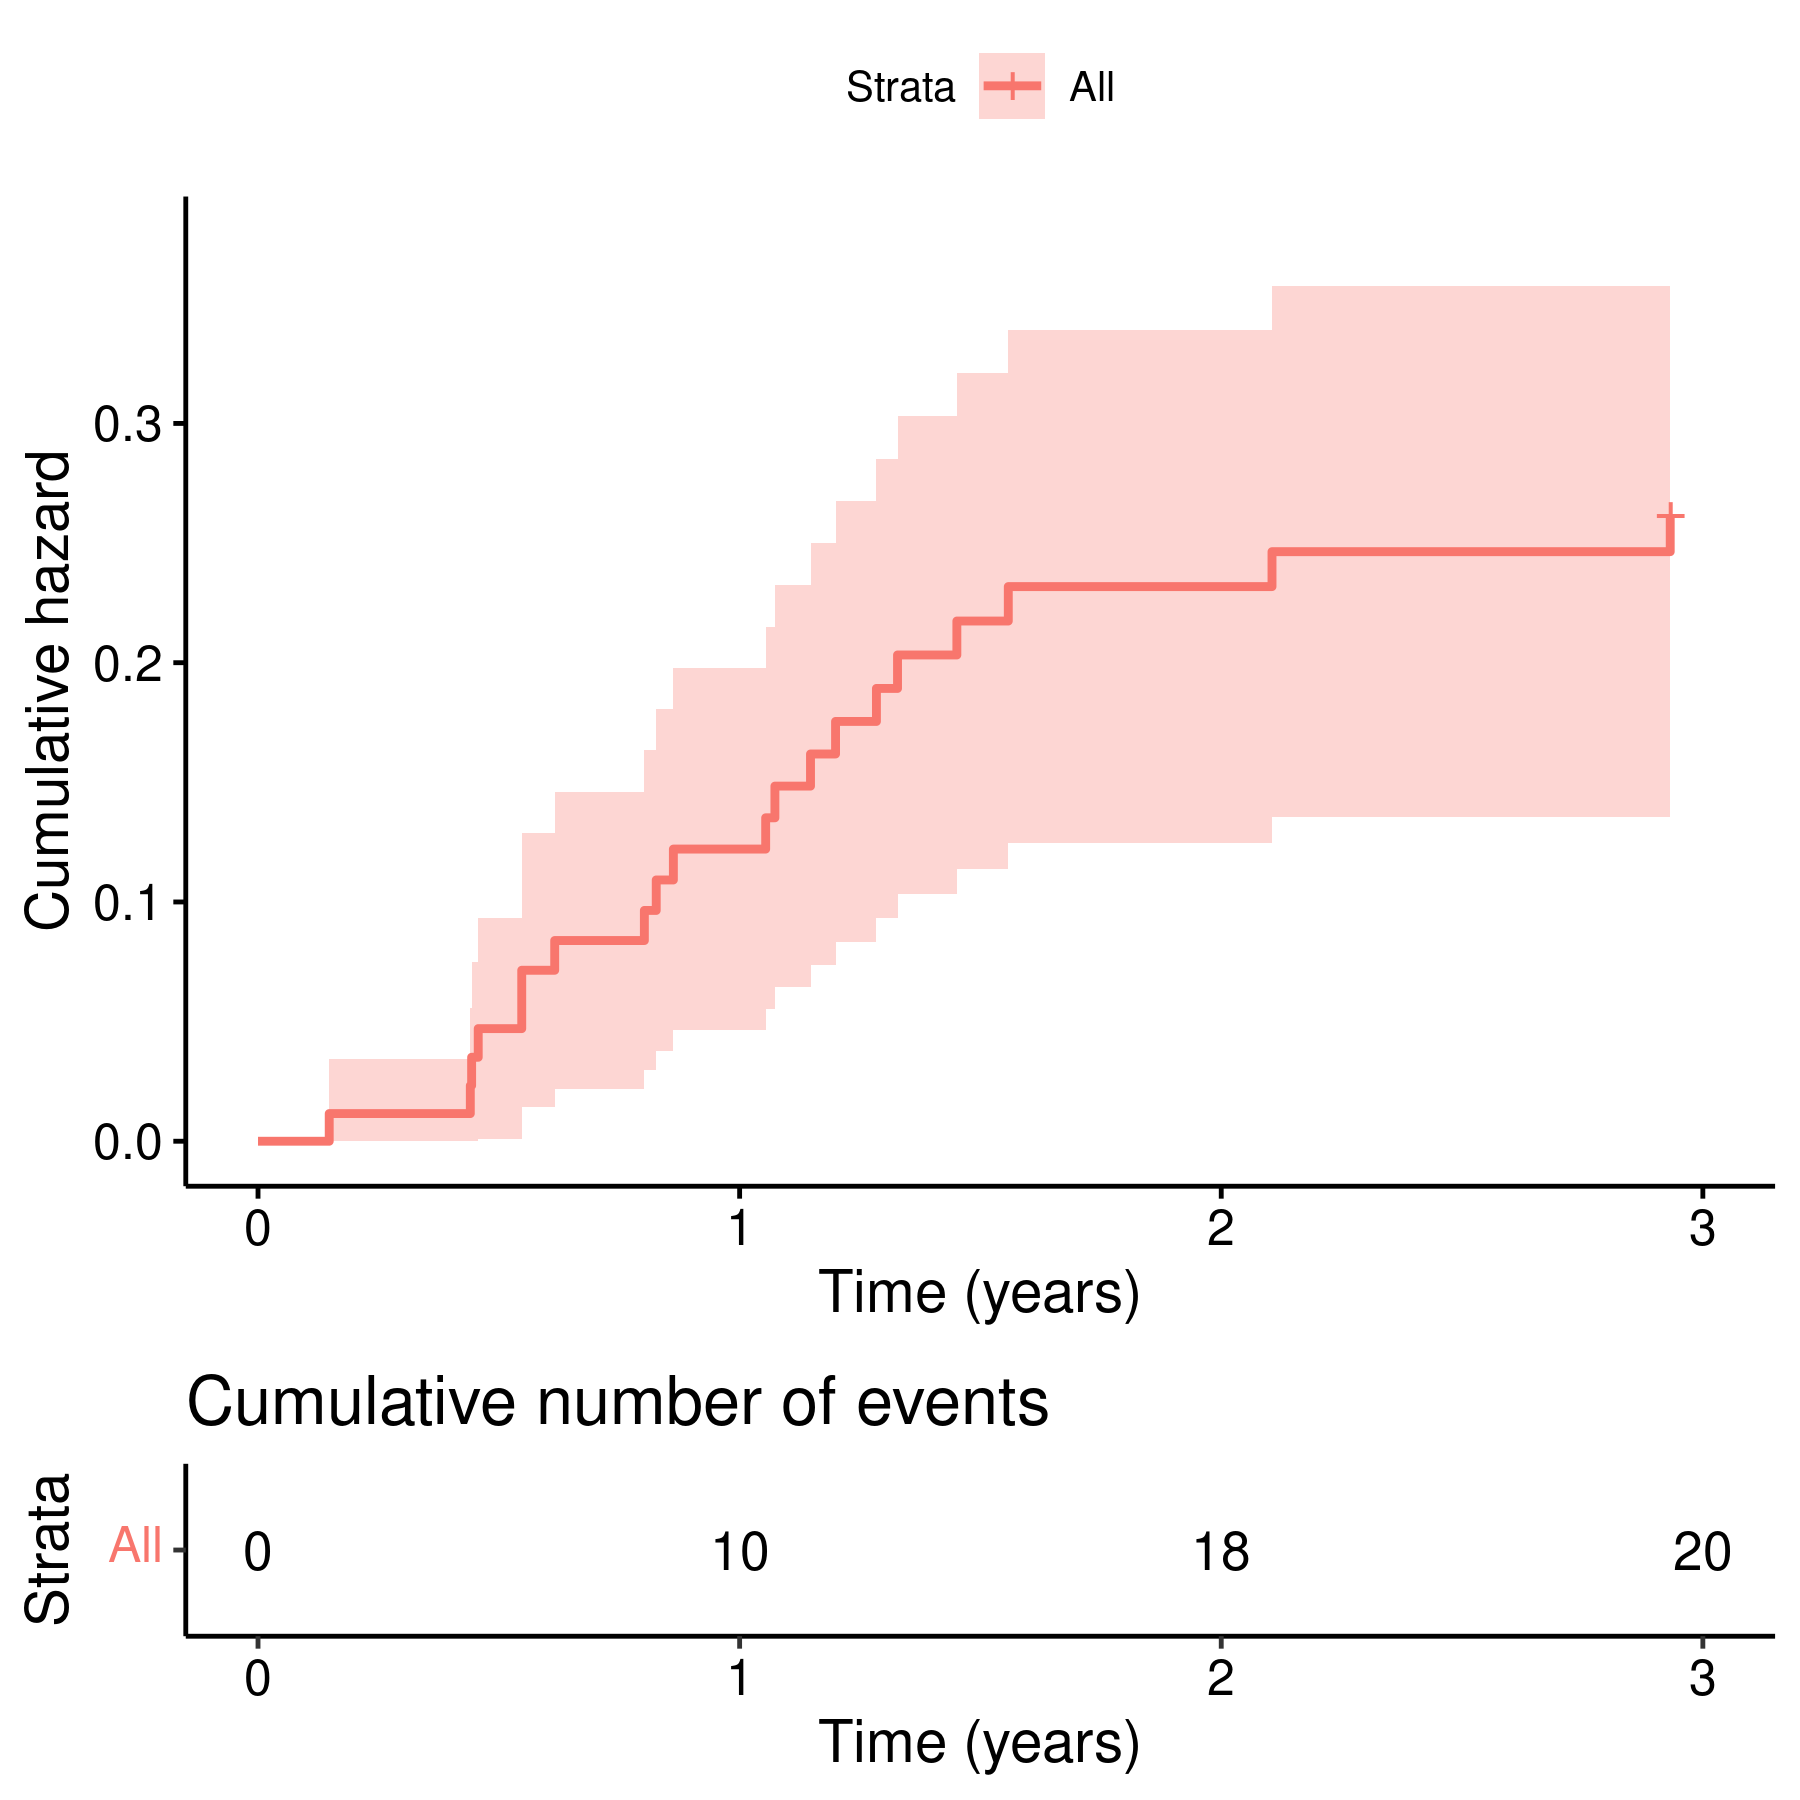
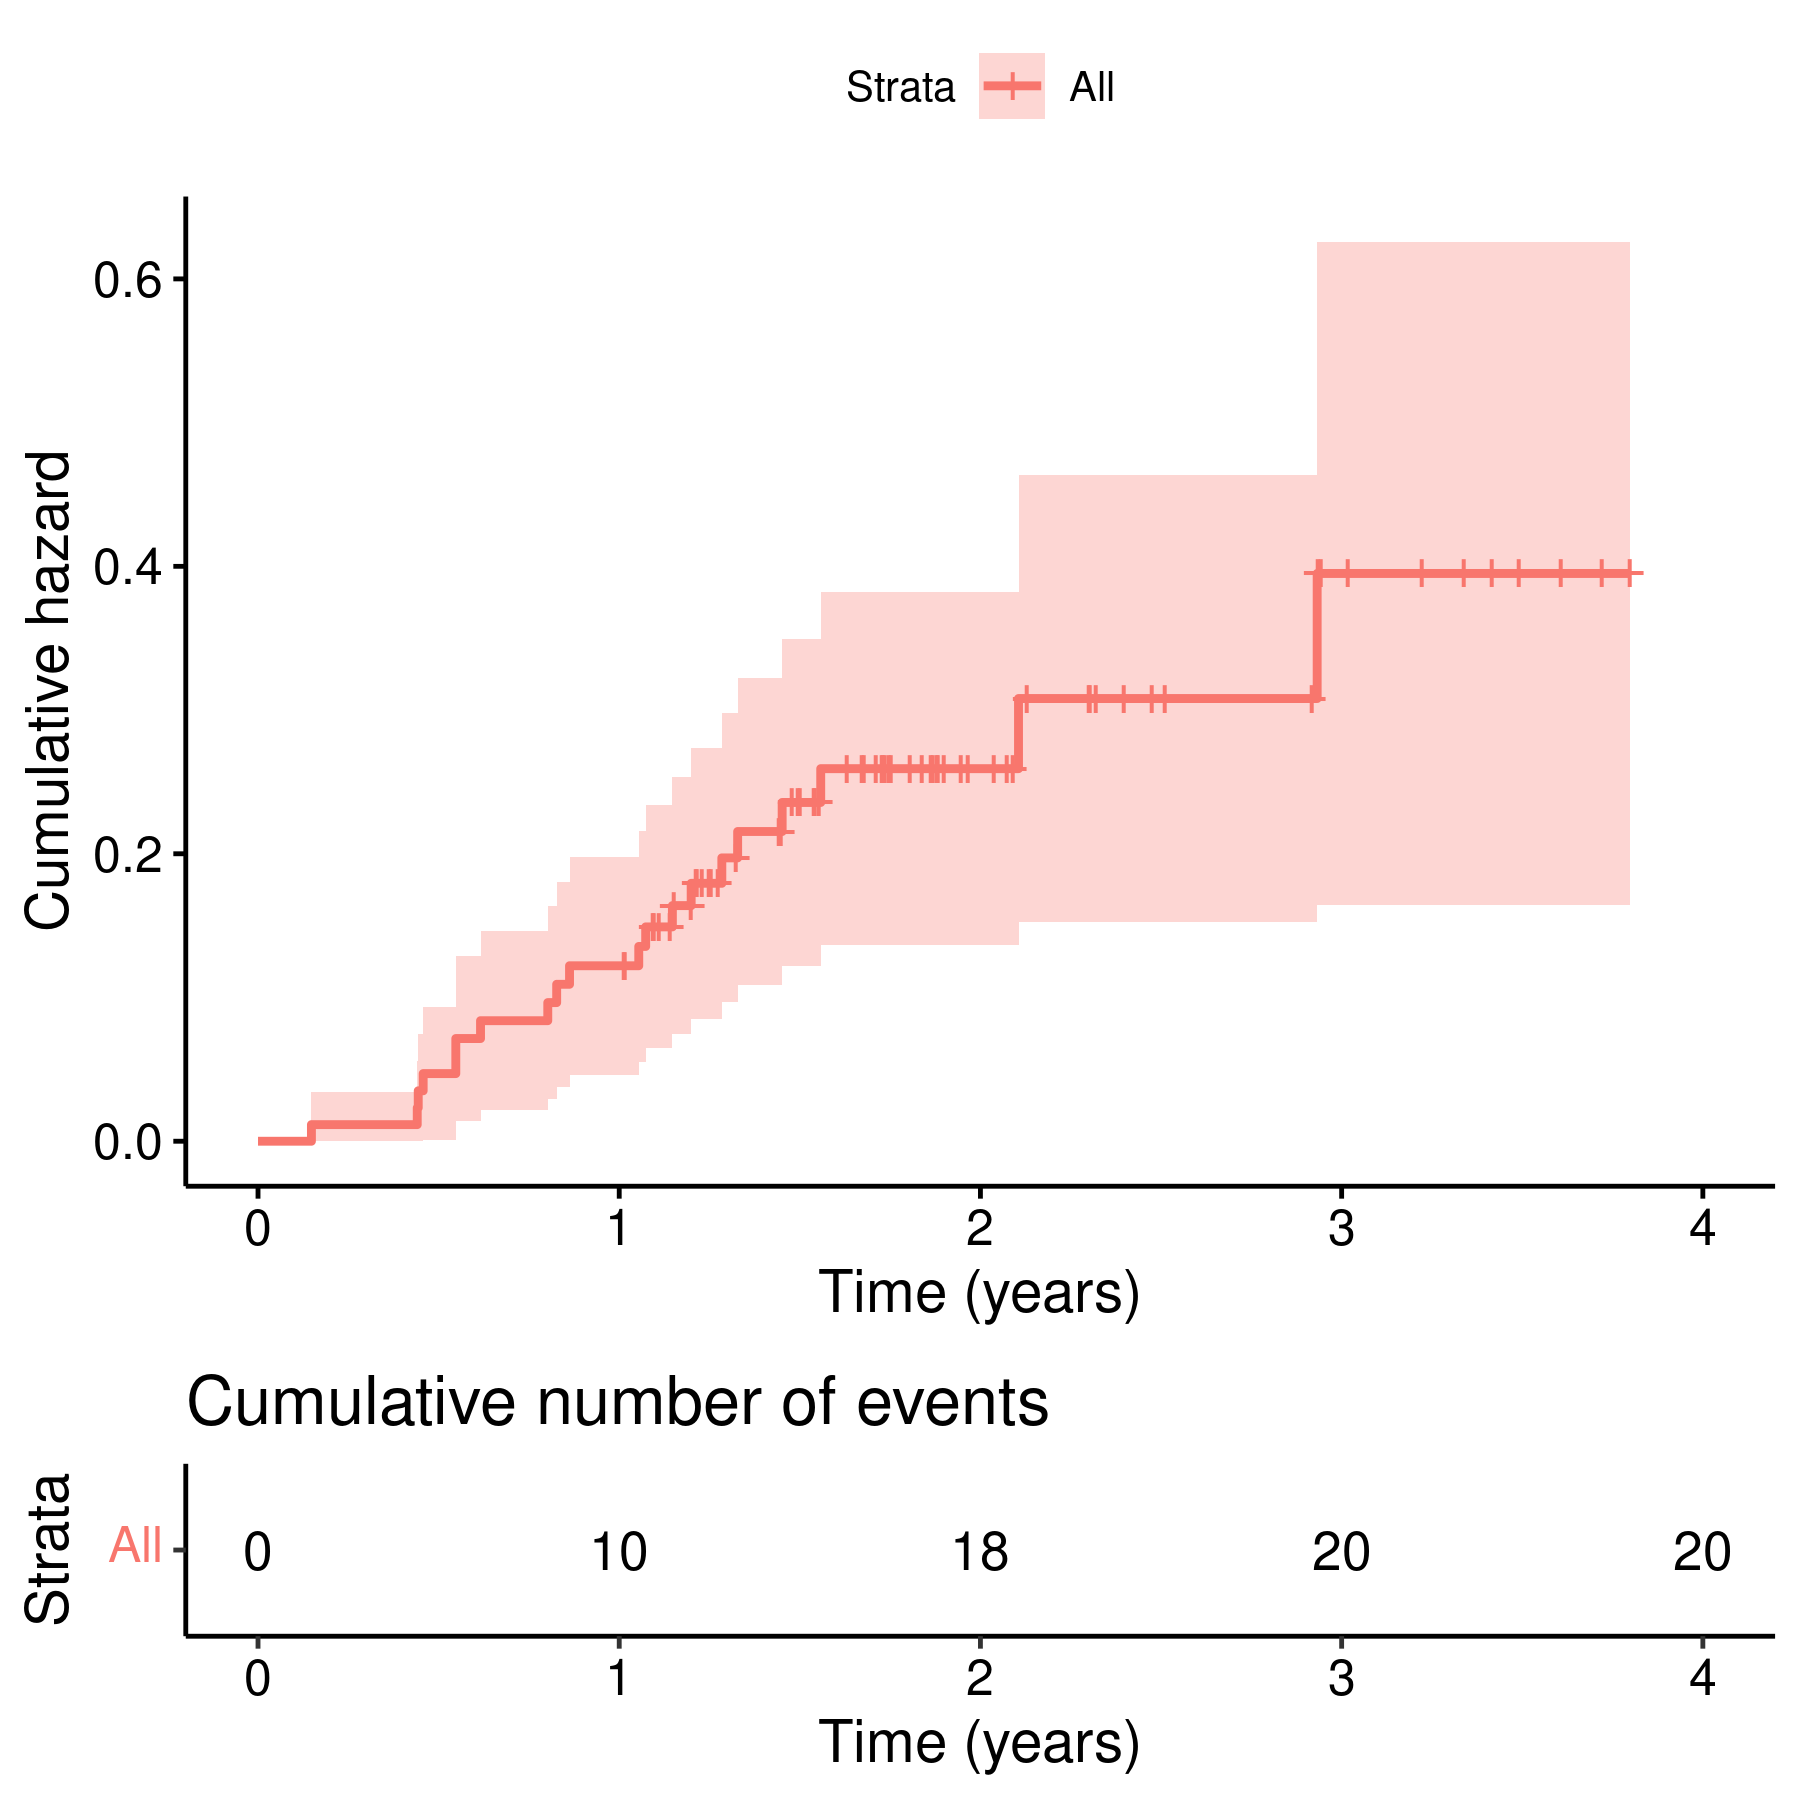
results updated after time fix - 3 years under observation

diff --git a/report/analise_dados_JF_2021-v01.md b/report/analise_dados_JF_2021-v01.md
@@ -142,20 +142,20 @@ After one year under observation the rate of failure (CI) was 12% (4% -- 18%), w
 There were no significant differences among groups when comparing genders, smoking status or the knee side operated on (Table 2).
 
 
-|**Characteristic** |2-year prosthesis loosening |**p-value** |
+|**Characteristic** |3-year prosthesis loosening |**p-value** |
 |:------------------|:---------------------------|:-----------|
-|Overall            |21% (12%, 29%)              |            |
-|Gender             |                            |0.7         |
-|M                  |19% (5.3%, 31%)             |            |
-|W                  |22% (9.6%, 33%)             |            |
-|Smoker             |                            |0.4         |
-|No                 |18% (7.9%, 28%)             |            |
-|Yes                |25% (3.4%, 42%)             |            |
-|Joint              |                            |0.8         |
-|L                  |21% (8.7%, 32%)             |            |
-|R                  |20% (6.6%, 31%)             |            |
+|Overall            |33% (15%, 47%)              |            |
+|Gender             |                            |>0.9        |
+|M                  |36% (3.3%, 58%)             |            |
+|W                  |33% (8.7%, 50%)             |            |
+|Smoker             |                            |0.3         |
+|No                 |25% (10%, 37%)              |            |
+|Yes                |63% (0%, 91%)               |            |
+|Joint              |                            |>0.9        |
+|L                  |28% (10%, 43%)              |            |
+|R                  |39% (0.9%, 62%)             |            |
 
-Table: **Table 2** Cumulative hazard of prosthesis loosening after 2-years of follow up.
+Table: **Table 2** Cumulative hazard of prosthesis loosening after 3 years of follow up.
 p-value: groups compared with the Log-rank test.
 
 ![](../figures/km_overall.png)
